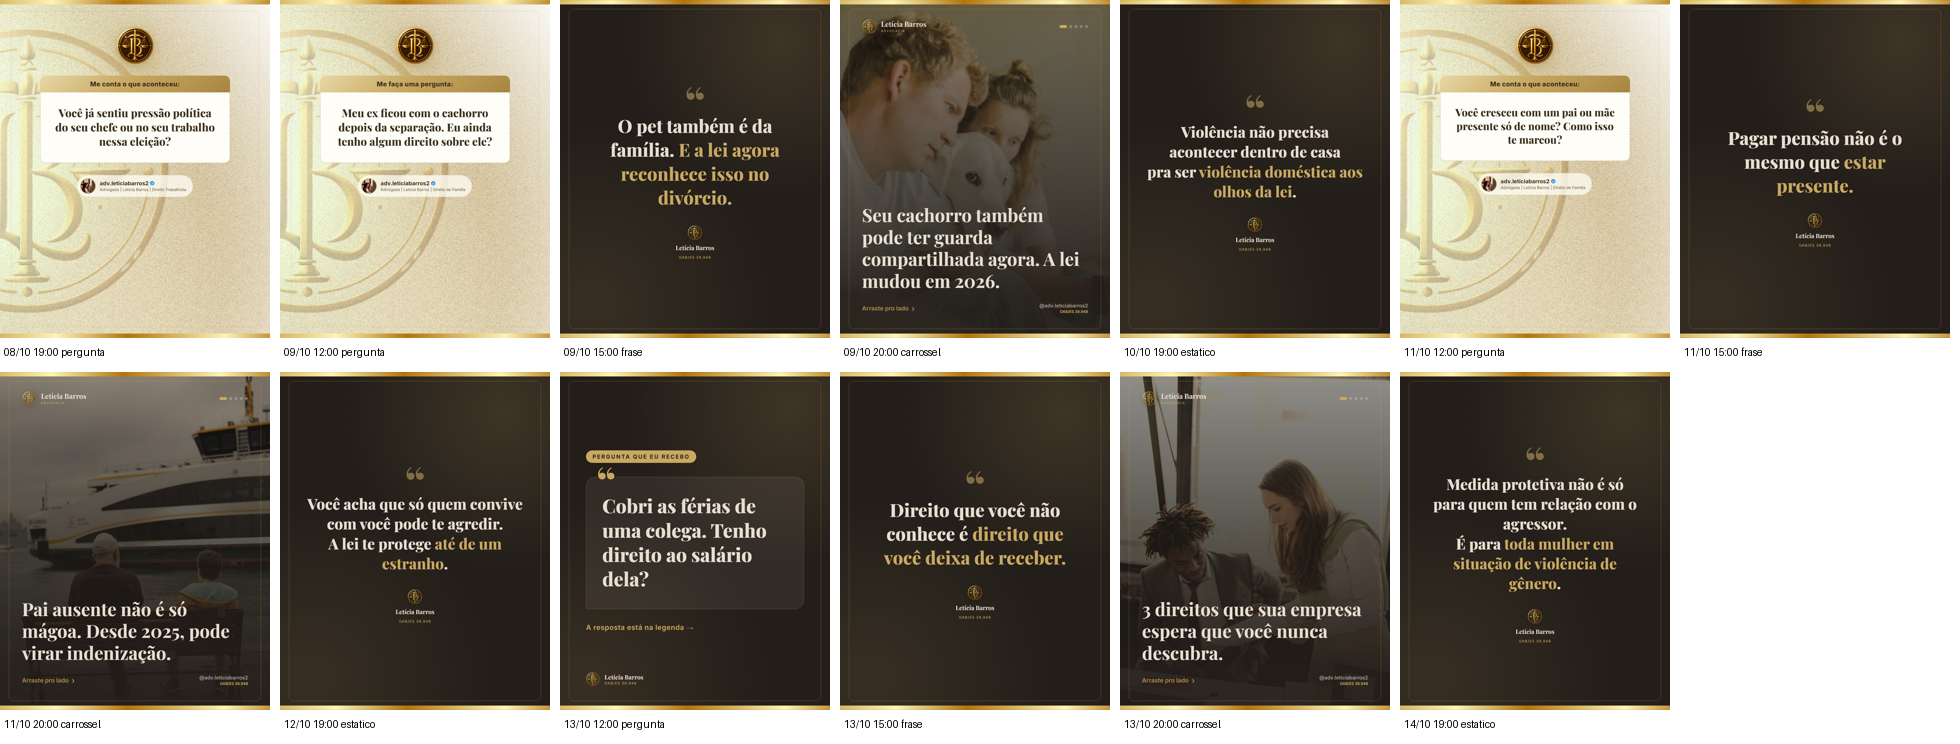
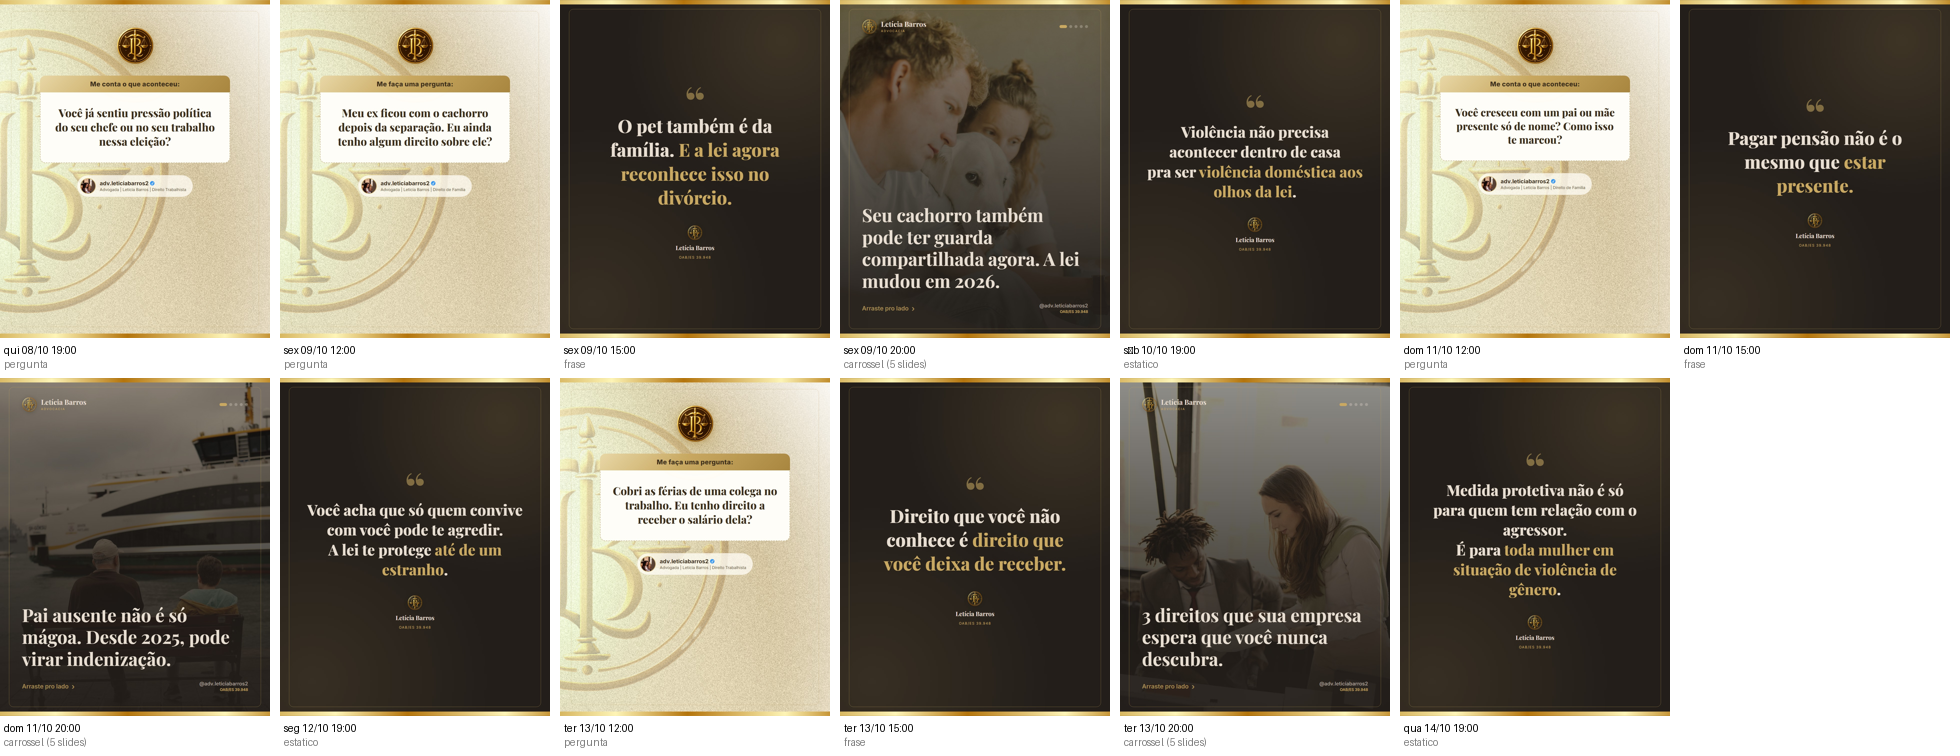
docs: registra a primeira programação automática

diff --git a/docs/CONTEXTO_PROJETO.md b/docs/CONTEXTO_PROJETO.md
@@ -475,6 +475,20 @@ descarta matéria antiga pela data (na ronda diária trazia notícias de meses
 atrás); resposta pedida em texto com citações (JSON não traz `url_citation`).
 Pendência: decidir se vale ativar o faturamento do Gemini.
 
+### Primeira programação automática (08/10/2026)
+
+Peças prontas do Editorial (Desktop\Editorial 28/09–04/10) + artes novas
+(frases de pet/abandono/CLT, pergunta CLT no padrão creme da usuária via
+`_saida_programacao_0810/_gerar_pergunta_clt.py`) + 3 frases de violência de
+gênero como estáticos de respiro. Tudo em JPEG (a Graph API só aceita JPEG)
+no volume `/app/media`, programado por `_saida_programacao_0810/_programar.py`
+(pauta por tema, peça aprovada com `imagem`/`imagens` + `legenda`, agendamento
+no ciclo). 13 posts Instagram 08–14/10 + artigos de pet (09/10 10h) e abandono
+afetivo (11/10 10h) no blog com capa pronta (`corpo.capa_arquivo` + `slug`).
+Ajustes para a 1ª publicação automática: `InstagramAPI._aguardar` espera o
+container ficar FINISHED antes de `media_publish`; `job_envios` a cada 5 min.
+Teste seco: container criado com `pergunta-pet.jpg` → FINISHED (sem publicar).
+
 ## Pendências conhecidas (por ordem de "quão perto de virar trabalho ativo")
 
 0. **Chave da OpenAI para o Jornalista** (opcional — terceira fonte):
